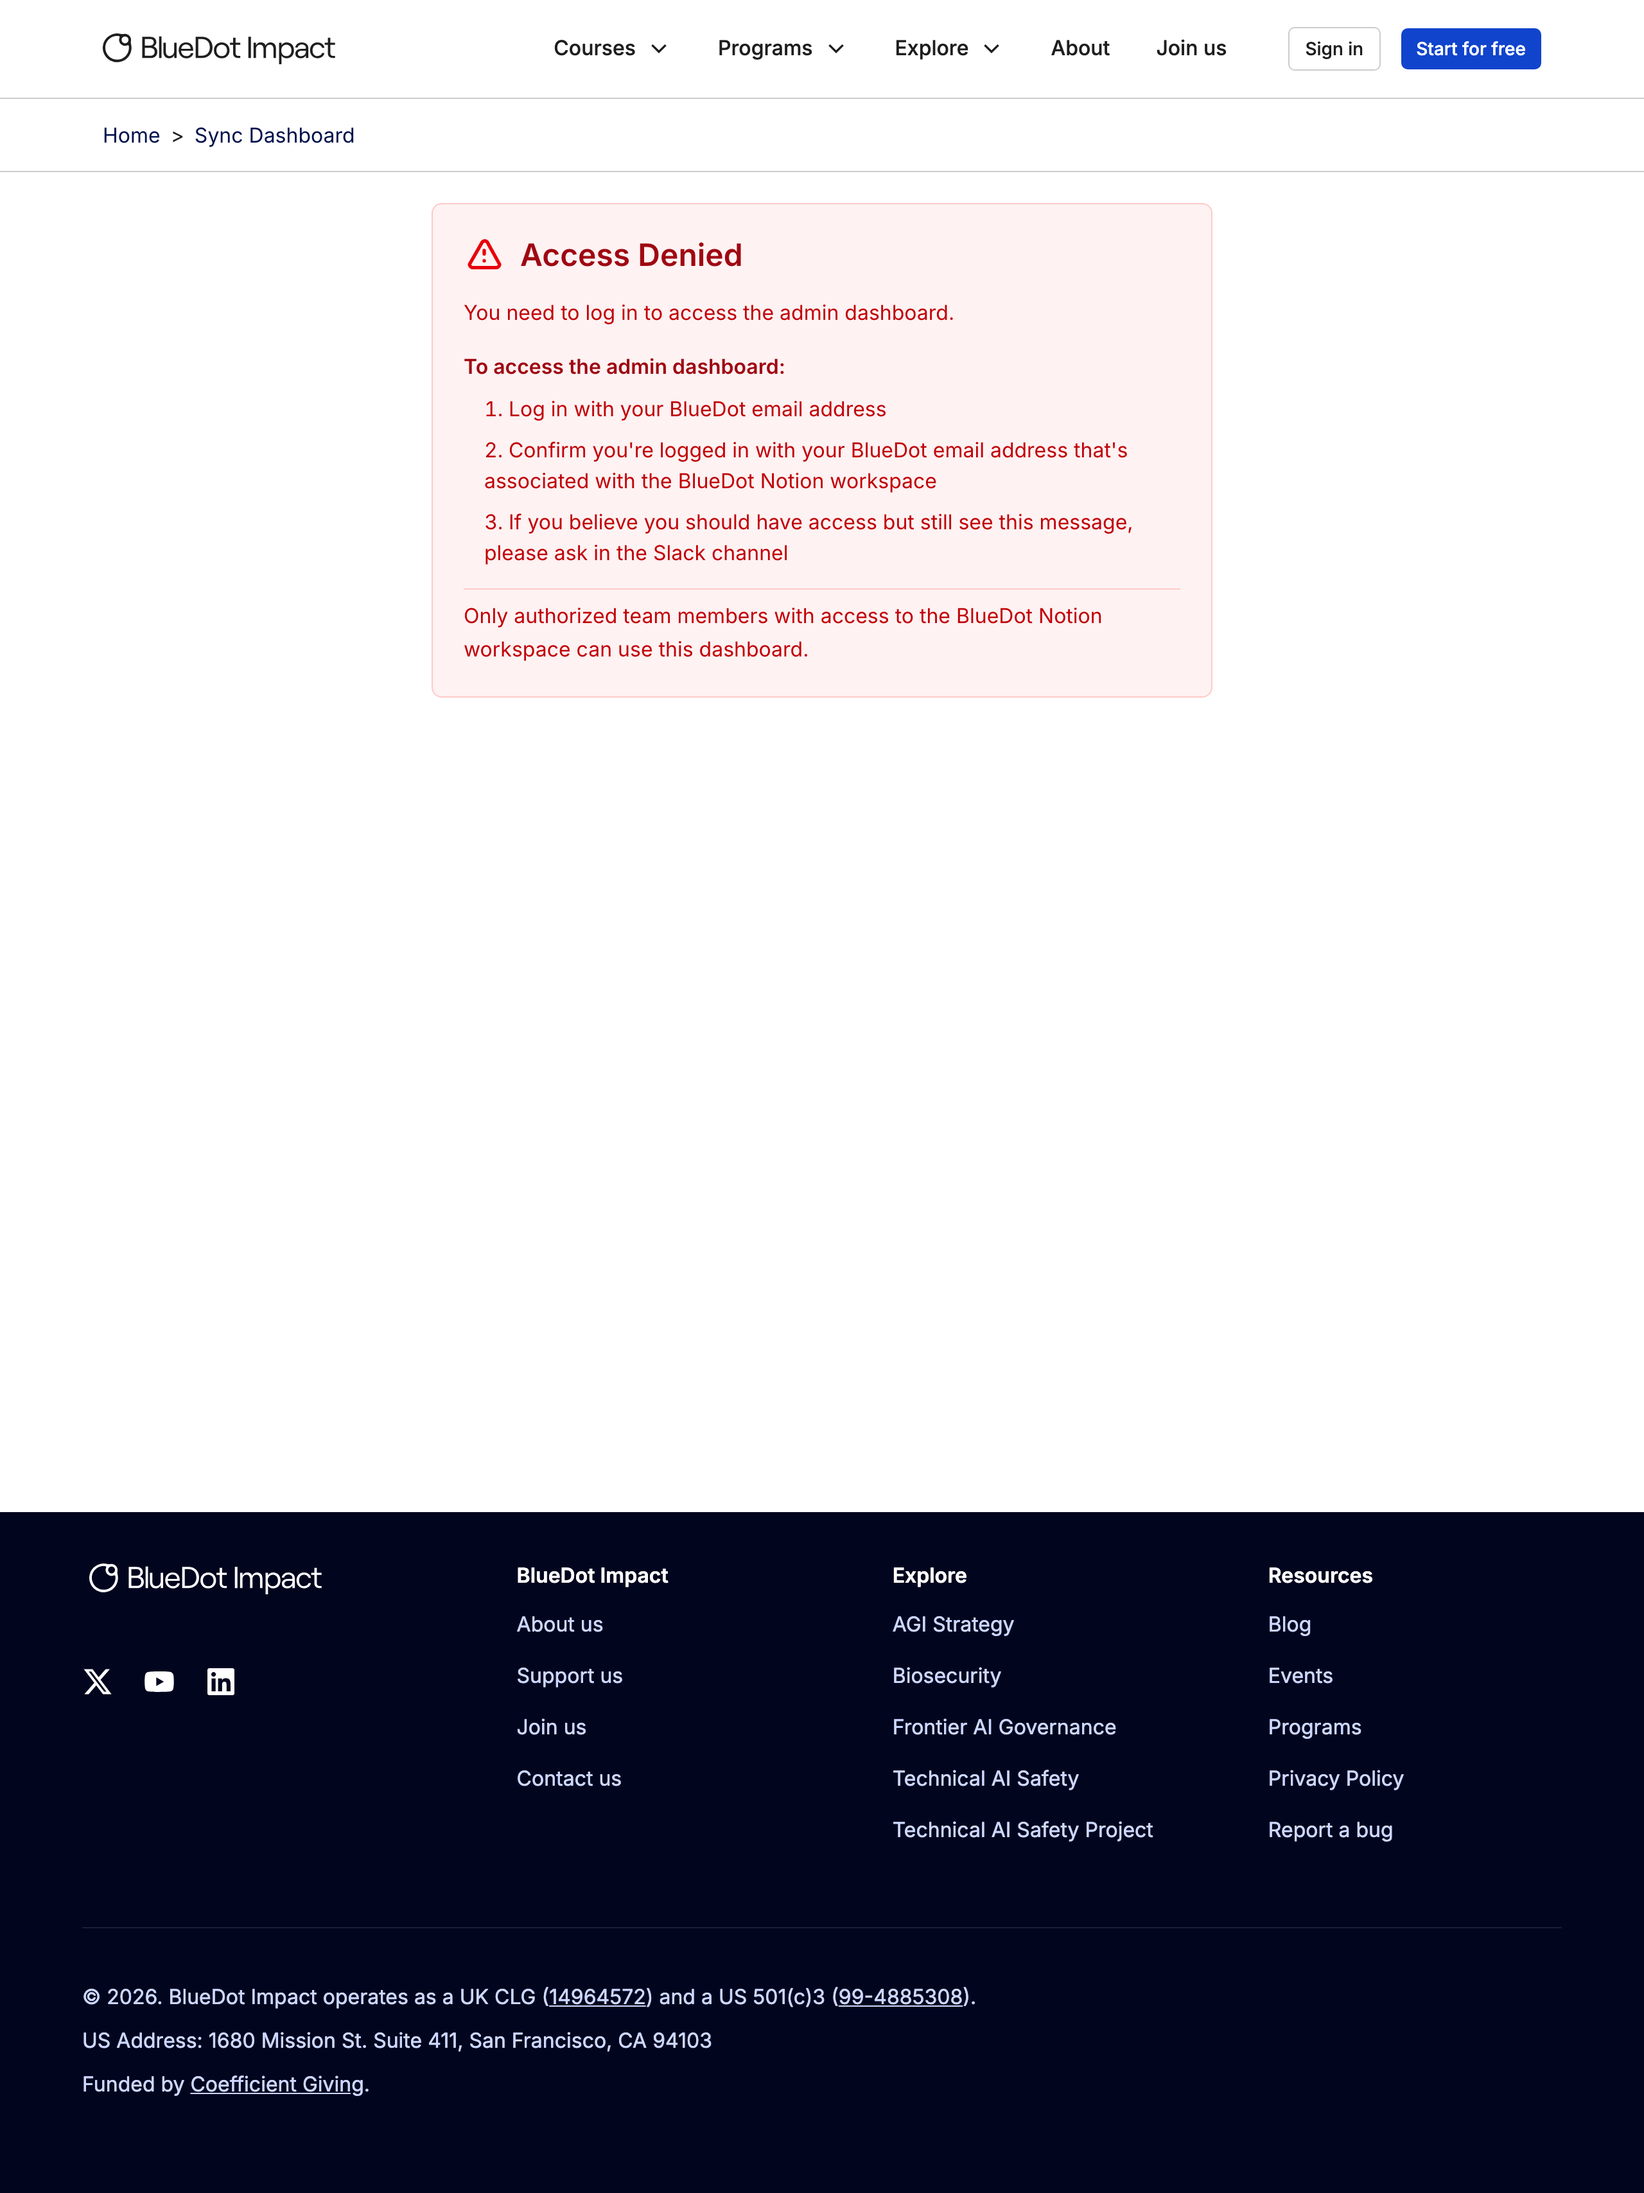
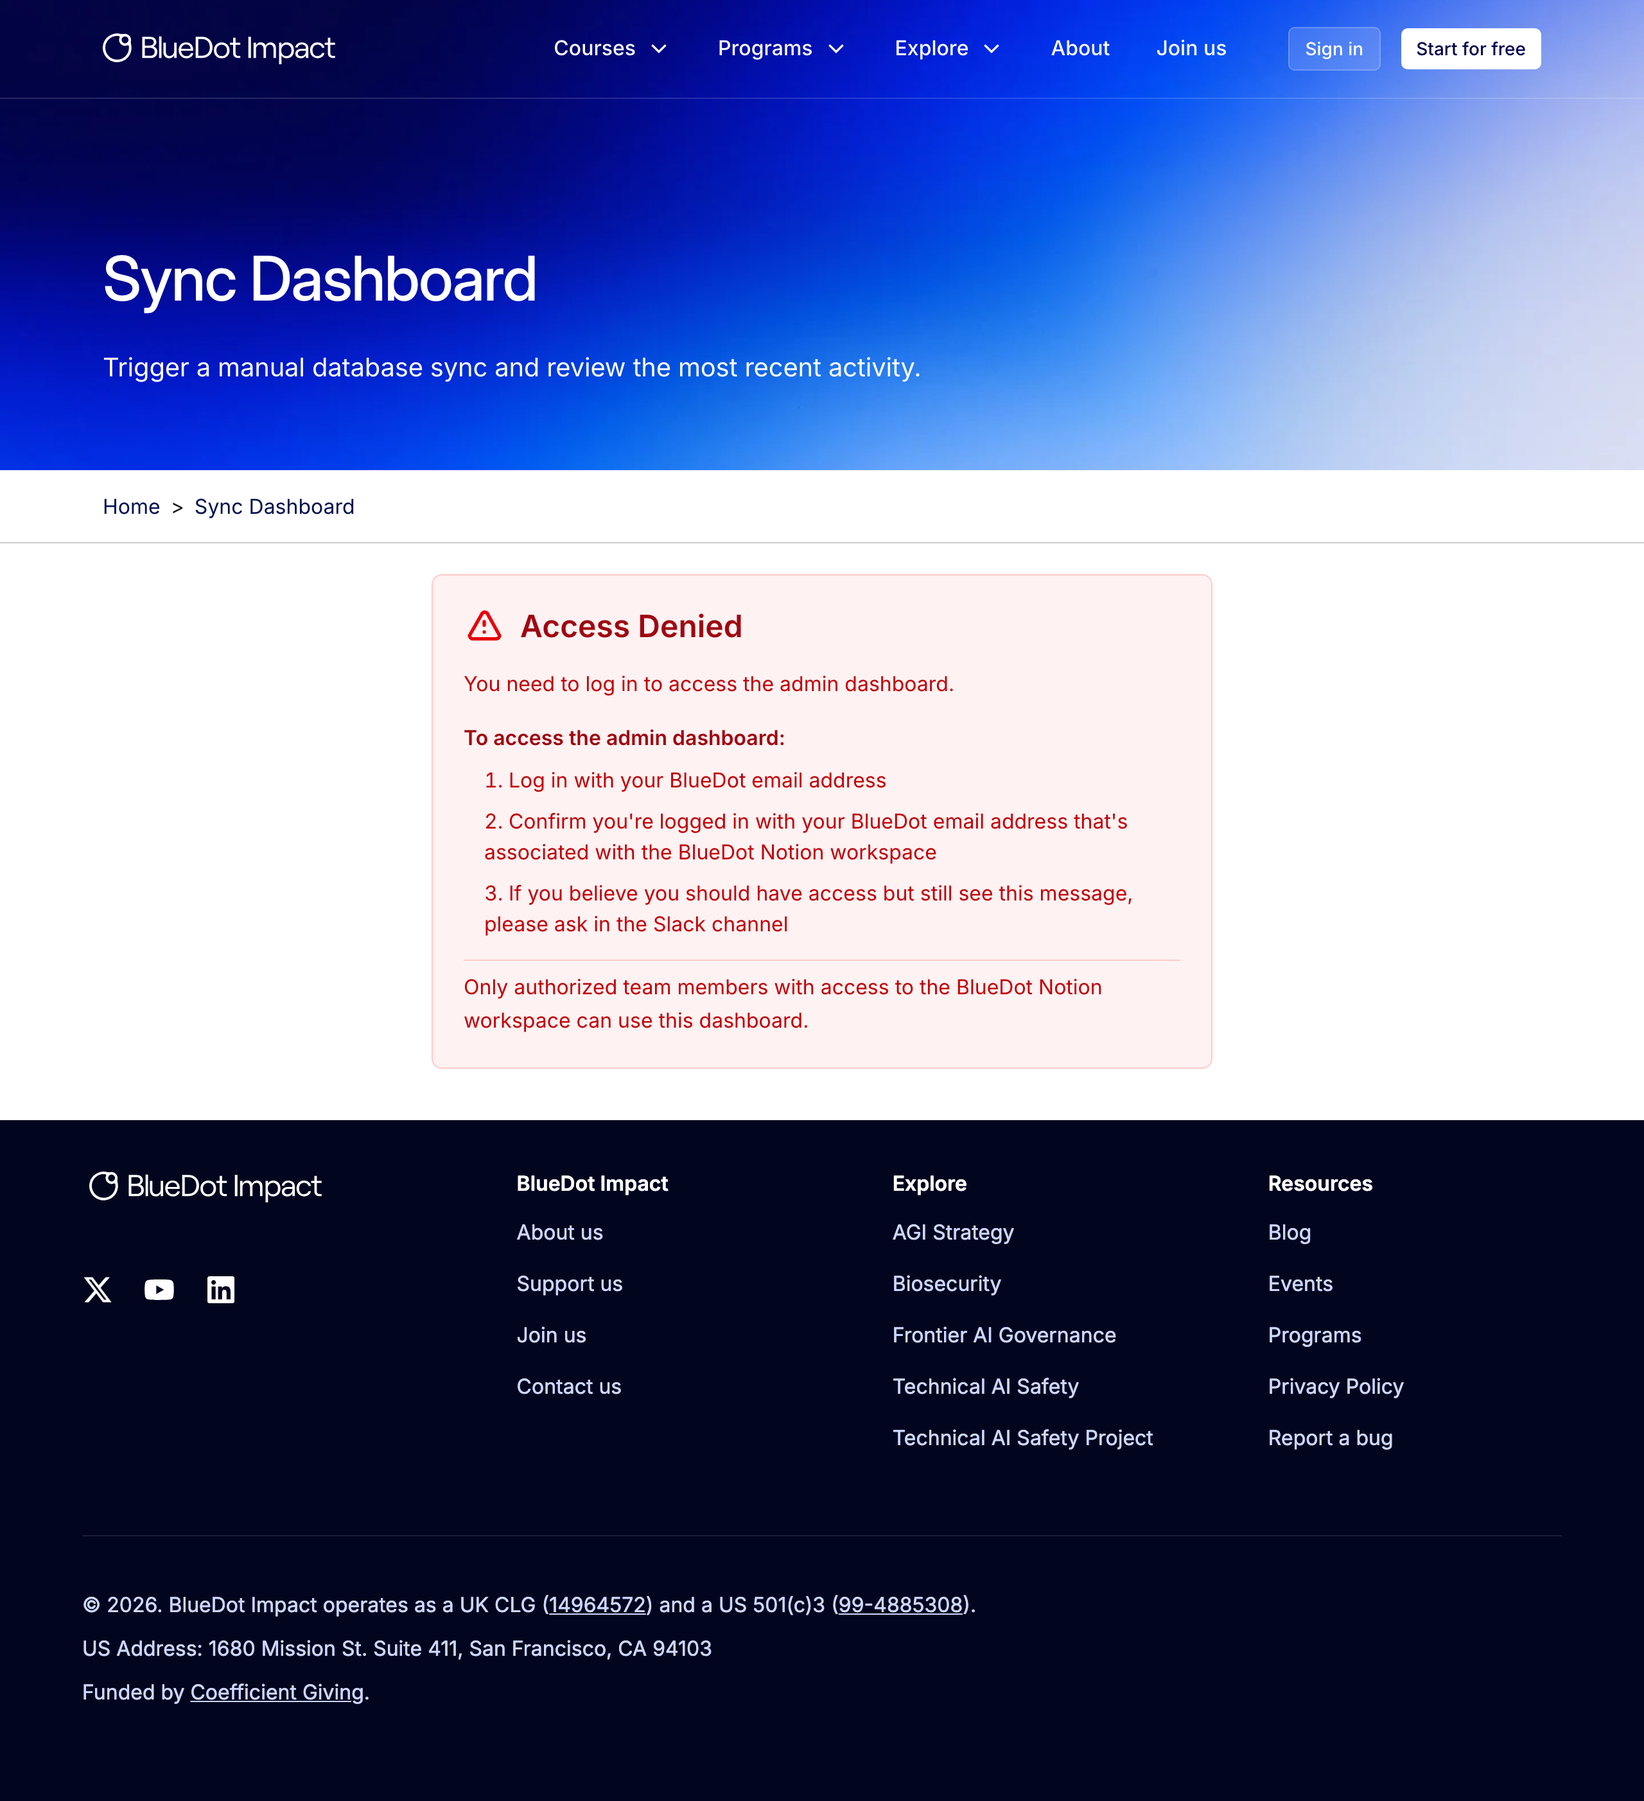
[style] sync-dashboard: marketing hero, drop in-page H1, smaller H3 + Important notes lead
- replace in-Section H1 with <MarketingHero /> so the title sits in the gradient like /events and /programs
- set pageRendersOwnNav + mainShrinkToContent to remove the trailing whitespace under the footer
- downsize 'Manual sync requests' from H2 to H3 and recase to sentence-style
- swap the Important notes H3 for a bold P so the callout reads as a card label, not a section heading
- factor a <PageChrome> wrapper to keep the four render branches DRY

Updated test mocks: next/router useRouter (Nav needs it), and the
empty-state assertion now waits on the data row rather than the hero
heading (which is present even during isLoading).

diff --git a/apps/website/src/pages/admin/sync-dashboard.tsx b/apps/website/src/pages/admin/sync-dashboard.tsx
@@ -2,7 +2,6 @@ import type { SyncStatus } from '@bluedot/db';
 import {
   Breadcrumbs,
   CTALinkOrButton,
-  H2,
   H3,
   P,
   ProgressDots,
@@ -11,12 +10,14 @@ import {
 } from '@bluedot/ui';
 import Head from 'next/head';
 import { RiLoader4Line } from 'react-icons/ri';
+import MarketingHero from '../../components/MarketingHero';
 import { ROUTES } from '../../lib/routes';
 import { trpc } from '../../utils/trpc';
 import { WarningTriangleIcon } from '../../components/icons/WarningTriangleIcon';
 import { WarningCircleIcon } from '../../components/icons/WarningCircleIcon';
 
 const CURRENT_ROUTE = ROUTES.adminSyncDashboard;
+const HERO_SUBTITLE = 'Trigger a manual database sync and review the most recent activity.';
 
 // Time formatter for 24-hour data
 function formatTimeAgo(date: Date): string {
@@ -36,11 +37,16 @@ function formatTimeAgo(date: Date): string {
   return diffInHours === 1 ? '1 hour ago' : `${diffInHours} hours ago`;
 }
 
-const PageHead = () => (
-  <Head>
-    <title>{`${CURRENT_ROUTE.title} | BlueDot Impact`}</title>
-    <meta name="robots" content="noindex" />
-  </Head>
+const PageChrome = ({ children }: { children: React.ReactNode }) => (
+  <div>
+    <Head>
+      <title>{`${CURRENT_ROUTE.title} | BlueDot Impact`}</title>
+      <meta name="robots" content="noindex" />
+    </Head>
+    <MarketingHero title={CURRENT_ROUTE.title} subtitle={HERO_SUBTITLE} />
+    <Breadcrumbs route={CURRENT_ROUTE} />
+    {children}
+  </div>
 );
 
 const SyncDashboard = () => {
@@ -78,9 +84,7 @@ const SyncDashboard = () => {
   // Access denied
   if (hasAuthError) {
     return (
-      <div>
-        <PageHead />
-        <Breadcrumbs route={CURRENT_ROUTE} />
+      <PageChrome>
         <Section className="max-w-3xl">
           <div className="bg-red-50 border border-red-200 rounded-lg p-6">
             <div className="flex items-center mb-4">
@@ -115,16 +119,14 @@ const SyncDashboard = () => {
             </div>
           </div>
         </Section>
-      </div>
+      </PageChrome>
     );
   }
 
   // Show general error (network, server errors, etc.)
   if (hasGeneralError) {
     return (
-      <div>
-        <PageHead />
-        <Breadcrumbs route={CURRENT_ROUTE} />
+      <PageChrome>
         <Section className="max-w-3xl">
           <div className="bg-amber-50 border border-amber-200 rounded-lg p-6">
             <div className="flex items-center mb-4">
@@ -145,18 +147,16 @@ const SyncDashboard = () => {
             </div>
           </div>
         </Section>
-      </div>
+      </PageChrome>
     );
   }
 
   // Show loading until we have determined access (either success or error response from API)
   if (isLoading) {
     return (
-      <div>
-        <PageHead />
-        <Breadcrumbs route={CURRENT_ROUTE} />
+      <PageChrome>
         <ProgressDots className="py-8" />
-      </div>
+      </PageChrome>
     );
   }
 
@@ -165,10 +165,8 @@ const SyncDashboard = () => {
   const hasSyncRunning = (syncData || []).some((r) => r.status === 'running');
 
   return (
-    <div>
-      <PageHead />
-      <Breadcrumbs route={CURRENT_ROUTE} />
-      <Section className="max-w-3xl" title="Sync Dashboard" titleLevel="h1">
+    <PageChrome>
+      <Section className="max-w-3xl">
         {/* Single action button */}
         <div className="mb-8">
           <CTALinkOrButton
@@ -188,7 +186,7 @@ const SyncDashboard = () => {
 
         {/* Important note about manual vs automatic syncs */}
         <div className="container-lined mb-8 p-4 bg-blue-50 border-blue-200">
-          <H3 className="text-blue-900 mb-2">Important Notes</H3>
+          <P className="font-semibold text-blue-900 mb-2">Important notes</P>
           <ul className="text-size-sm text-blue-800 space-y-1 list-disc list-inside">
             <li>This dashboard only shows manually requested syncs</li>
             <li>Automatic syncs from schema changes are not displayed here</li>
@@ -199,12 +197,12 @@ const SyncDashboard = () => {
 
         {/* Recent activity (last 24 hours) */}
         <div>
-          <H2 className="mb-4 flex items-center gap-2">
-            Manual Sync Requests (Last 24 Hours)
+          <H3 className="mb-4 flex items-center gap-2">
+            Manual sync requests (last 24 hours)
             {isFetching && (
               <RiLoader4Line className="animate-spin text-bluedot-normal" size={16} />
             )}
-          </H2>
+          </H3>
 
           {!syncData || syncData.length === 0 ? (
             <P className="text-gray-600">No manual sync requests in the last 24 hours</P>
@@ -257,7 +255,7 @@ const SyncDashboard = () => {
           )}
         </div>
       </Section>
-    </div>
+    </PageChrome>
   );
 };
 
@@ -274,5 +272,8 @@ const StatusBadge = ({ status }: { status: SyncStatus }) => {
     </span>
   );
 };
+
+SyncDashboard.pageRendersOwnNav = true;
+SyncDashboard.mainShrinkToContent = true;
 
 export default SyncDashboard;

diff --git a/apps/website/src/__tests__/pages/admin/sync-dashboard.test.tsx b/apps/website/src/__tests__/pages/admin/sync-dashboard.test.tsx
@@ -7,6 +7,7 @@ import { TRPCError } from '@trpc/server';
 import {
   describe, expect, test, vi, beforeEach,
 } from 'vitest';
+import type * as BluedotUi from '@bluedot/ui';
 import { useAuthStore } from '@bluedot/ui';
 import type { SyncStatus } from '@bluedot/db';
 import { server, trpcMsw } from '../../trpcMswSetup';
@@ -16,7 +17,7 @@ import { ONE_HOUR_MS } from '../../../lib/constants';
 
 // Mock dependencies
 vi.mock('@bluedot/ui', async () => {
-  const actual = await vi.importActual<typeof import('@bluedot/ui')>('@bluedot/ui');
+  const actual = await vi.importActual<typeof BluedotUi>('@bluedot/ui');
   return {
     ...actual,
     useAuthStore: vi.fn(),
@@ -30,6 +31,14 @@ vi.mock('react-icons/ri', () => ({
   RiLoader4Line: ({ className, size }: { className?: string; size?: number }) => (
     <div data-testid="loader-icon" className={className} style={{ width: size, height: size }} />
   ),
+}));
+
+// MarketingHero renders <Nav /> which calls next/router's useRouter
+vi.mock('next/router', () => ({
+  useRouter: () => ({
+    pathname: '/admin/sync-dashboard',
+    query: {},
+  }),
 }));
 
 describe('SyncDashboard - Main User Journeys', () => {
@@ -85,9 +94,9 @@ describe('SyncDashboard - Main User Journeys', () => {
     render(<SyncDashboard />, { wrapper: TrpcProvider });
 
     await waitFor(() => {
-      expect(screen.getByRole('heading', { name: 'Sync Dashboard' })).toBeInTheDocument();
+      expect(screen.getByText('No manual sync requests in the last 24 hours')).toBeInTheDocument();
     });
-    expect(screen.getByText('No manual sync requests in the last 24 hours')).toBeInTheDocument();
+    expect(screen.getByRole('heading', { name: 'Sync Dashboard' })).toBeInTheDocument();
 
     // Find the sync button
     const syncButton = screen.getByRole('button', { name: 'Request Full Sync' });
